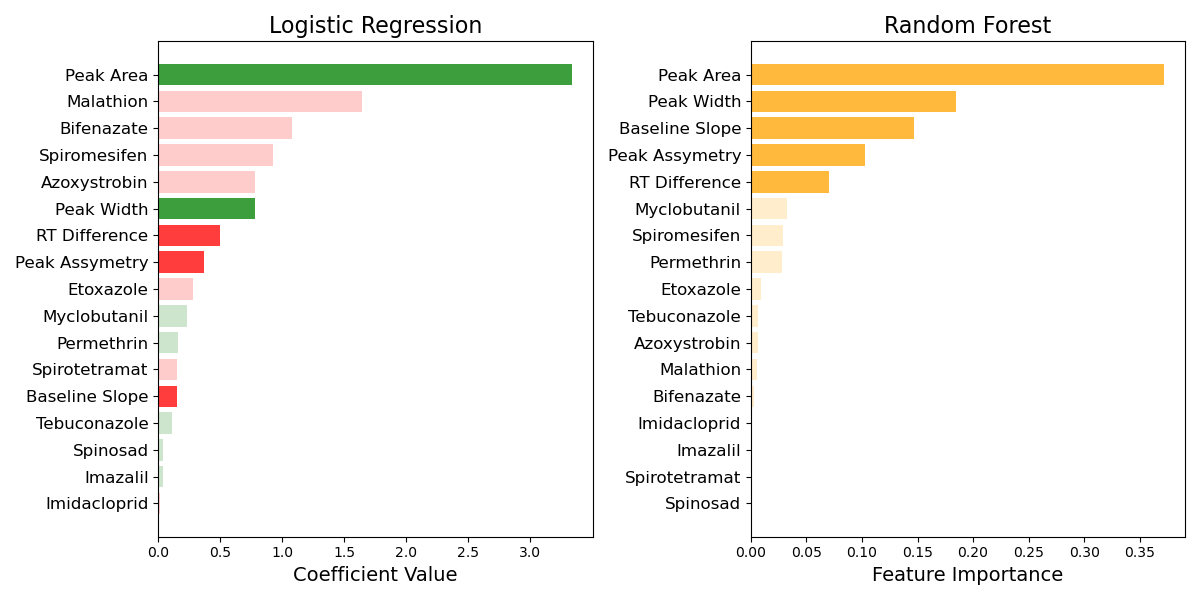
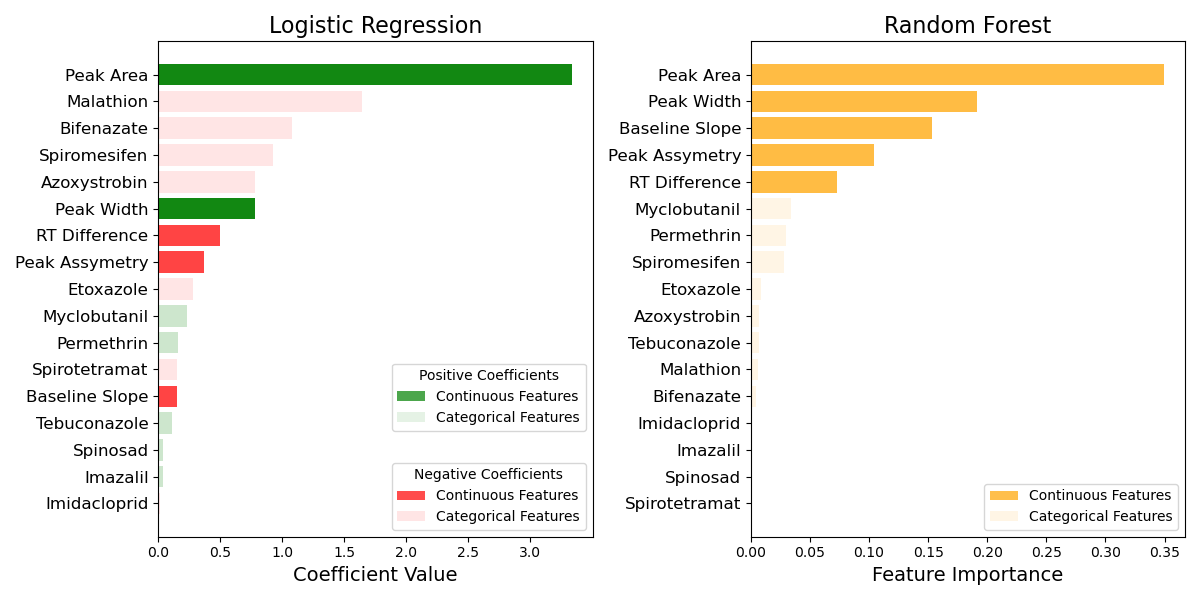
labels on feature plot

diff --git a/src/misc.py b/src/misc.py
@@ -160,17 +160,36 @@ def feature_comparison(columns, coefs, features, save=False):
     '''
     sort_coefs, sort_no_a_coefs, sort_d_coefs = sort_columns(columns, coefs)
     sort_feat, sort_no_a_feat, sort_d_feat = sort_columns(columns, features)
+    pos_coefs = [0 if coef < 0 else coef for coef in sort_coefs]
+    pos_no_a_coefs = [0 if coef < 0 else coef for coef in sort_no_a_coefs]
     colors = ['r' if coef < 0 else 'g' for coef in sort_coefs]
     fig, axes = plt.subplots(1, 2, figsize=(12, 6))
     importance_plot(axes[0], sort_coefs, sort_no_a_coefs, colors)
+    importance_plot(axes[0], pos_coefs, pos_no_a_coefs, 'green')
     axes[0].set_xlabel('Coefficient Value', fontsize=14)
     axes[0].set_yticklabels(sort_d_coefs, fontsize=12)
     axes[0].set_title('Logistic Regression', fontsize=16)
+    axes[0].legend()
+    handles, labels = axes[0].get_legend_handles_labels()
+    order1 = [1, 0]
+    l1 = axes[0].legend([handles[idx] for idx in order1],
+                        [labels[idx] for idx in order1],
+                        loc='lower right', title='Negative Coefficients')
+    order2 = [3, 2]
+    axes[0].legend([handles[idx] for idx in order2],
+                   [labels[idx] for idx in order2],
+                   loc='lower right', title='Positive Coefficients',
+                   bbox_to_anchor=(1, 0.2))
+    axes[0].add_artist(l1)
     importance_plot(axes[1], sort_feat, sort_no_a_feat, 'orange')
     axes[1].set_xlabel('Feature Importance', fontsize=14)
     axes[1].set_yticks(list(range(len(features))))
     axes[1].set_yticklabels(sort_d_feat, fontsize=12)
     axes[1].set_title('Random Forest', fontsize=16)
+    handles, labels = plt.gca().get_legend_handles_labels()
+    order = [1, 0]
+    plt.legend([handles[idx] for idx in order],[labels[idx] for idx in order],
+               loc='lower right')
     plt.tight_layout()
     if save:
         plt.savefig('../images/coef_features.png')
@@ -196,9 +215,9 @@ def importance_plot(ax, all_vals, no_analyte, colors):
         axes with plot
     '''
     ax.barh(list(range(len(all_vals))), np.abs(all_vals), color=colors,
-            alpha=0.2)
+            alpha=0.1, label='Categorical Features')
     ax.barh(list(range(len(all_vals))), np.abs(no_analyte), color=colors,
-            alpha=0.7)
+            alpha=0.7, label='Continuous Features')
     ax.set_yticks(list(range(len(all_vals))))
     return ax
 

diff --git a/README.md b/README.md
@@ -92,13 +92,16 @@ Figure 6: ROC curve and F1 score comparison over various thresholds for logistic
  The coefficients and the feature importances of the models were compared to see if the models were assigning similar weight to the features. The area of the peak was the most important feature for both models, but the logistic regression put much more weight on the different analytes than the random forest did. The random forest put almost no weight on any of the analyte features. This could be due to the nature of random forest feature importance calculation having an impact from the number of times a feature is used for a split. Since all of the analyte features are one hot encoded categorical features the random forest can split on these features a maximum of one time making them less important than the other continuous features. 
 
 ![importance](images/coef_features.png)
+Figure 7: Coefficient Values and Feature Importances
 
+The coefficients assigned by the logistic regression follow the importance a chemist would put on these features. The peak area is used to calculate the concentration and all of the pesticide have concentration thresholds, where samples are not reported if they do not exceed the threshold. The peak width is part of the calculation for peak area, and thus reltaed to concentration. The difference between the observed retention time and the expected retention time is the highest negative coefficient. This also makes sense because the further the peak is from the expected retention time the less likely it is to be the compound of interest and more likely to be an interference that would not be reported. Peak assymetry and baseline slope are both features that describe the appearance of the peak. These features are likely to increase with noisy peak integration that would be less likely to be reported.
 
 # Conclusion
 Both the logistic regression and random forest models are finding signal to classify the chromatograms. The peak area is the most important feature for both models. Many of the chromatograms with integrated peaks are finding the analyte of interest, but the concentration in the unreported samples is below the reporting limit. Since the area is directly related to the concentration it is not surprising that these models are putting a large weight on that feature. 
 
 ## Future Work
 - Determine F-statistic and p-values for logistic regressions
+- Create partial dependence plots for the random forest
 - Identify incorrectly classified chromatograms to determine what is causing problems for the models
 - Repeat logistic and random forest modeling with all features to see if predictions improve
 - Try other classification algorithms including Neural Nets
